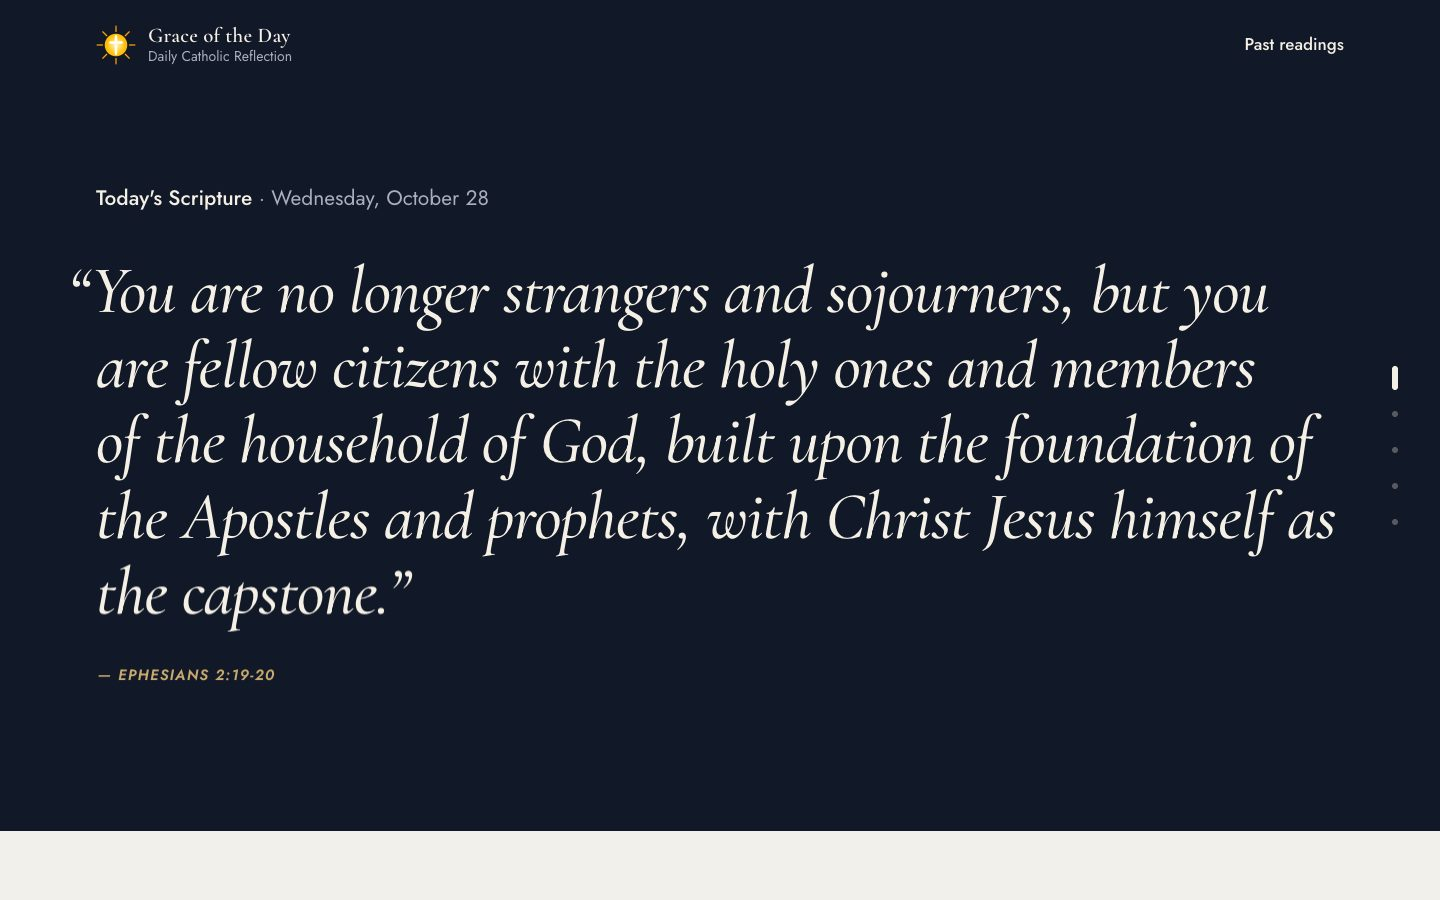
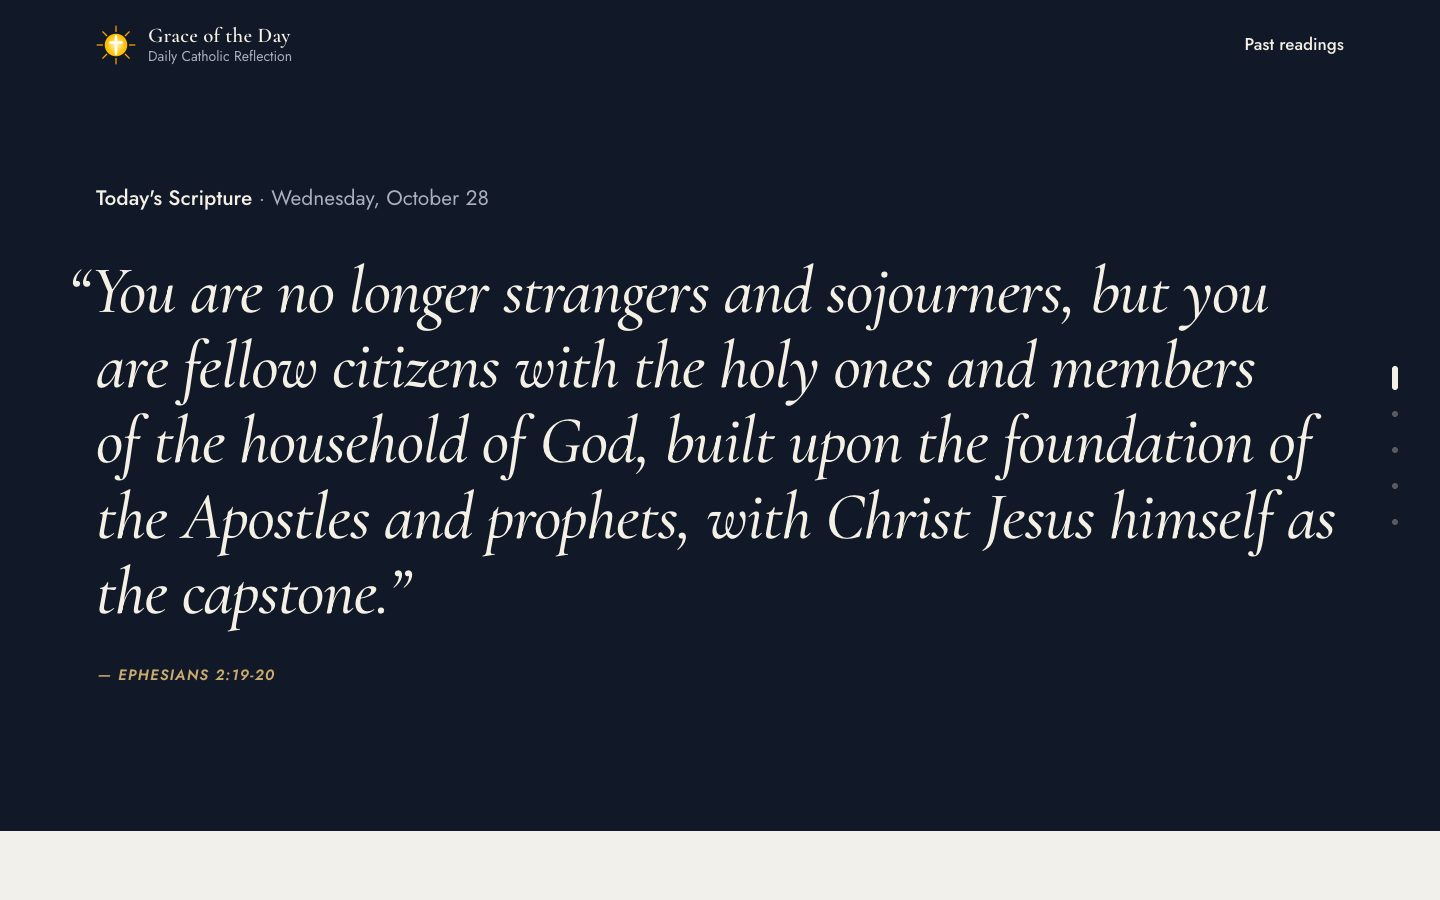
Adding preloader and adjusting opening animation

diff --git a/src/views/HomeView.vue b/src/views/HomeView.vue
@@ -4,6 +4,7 @@ import { supabase, dateKey, dateFromKey } from '../supabase';
 import { liturgicalField } from '../liturgicalColors';
 import { currentFeast, liturgicalSeason, todaysVerse } from '../liturgicalSeason';
 import { getEaster } from '../liturgicalCalendar';
+import AppLogo from '../components/AppLogo.vue';
 import { prefersReducedMotion } from '../reveal';
 
 // Today when the address is the home page; a past day at /day/YYYY-MM-DD
@@ -111,32 +112,14 @@ onBeforeUnmount(() => {
   chapterObserver?.disconnect();
 });
 
-// --- The verse arrives one line at a time ---
-const verseEl = ref(null);
-const verseLines = ref(0);
-const verseState = ref(''); // '' | 'is-measuring' | 'is-arriving'
-const verseWords = computed(() => `“${aiResponse.value.scripture}”`.split(/\s+/));
-
-// Group the words into the lines the browser wrapped them onto, then let each line rise in turn
-const arriveVerse = async () => {
-  if (prefersReducedMotion()) return;
-  verseState.value = 'is-measuring';
-  await nextTick();
-  await document.fonts?.ready;
-  const tops = [];
-  verseEl.value?.querySelectorAll('.verse-word').forEach((word) => {
-    let line = tops.indexOf(word.offsetTop);
-    if (line === -1) line = tops.push(word.offsetTop) - 1;
-    word.style.setProperty('--line', line);
-  });
-  verseLines.value = tops.length;
-  verseState.value = 'is-arriving';
-};
+// --- The loader covers the page until the reading and its fonts are ready ---
+const ready = ref(false);
 
 watch(loading, async (isLoading) => {
   if (isLoading) return;
-  arriveVerse();
   await nextTick();
+  await document.fonts?.ready;
+  ready.value = true;
   watchChapters();
 });
 
@@ -343,34 +326,37 @@ onMounted(() => {
 </script>
 
 <template>
-  <div class="home-view" :class="{ 'is-loading': loading }">
+  <div class="home-view" :class="{ 'is-ready': ready }">
+    <!-- Until the reading and its fonts have arrived, the page stays covered. Moved to the
+         body so it sits above the header and footer as well. -->
+    <Teleport to="body">
+      <Transition name="loader">
+        <div v-if="!ready" class="page-loader" role="status">
+          <AppLogo class="loader-mark" />
+          <p class="loader-text">Preparing {{ isToday ? "today's" : 'the' }} reading…</p>
+        </div>
+      </Transition>
+    </Teleport>
+
     <!-- Scripture: the first chapter, and the one large moment -->
     <section
       class="chapter chapter--navy chapter--scripture"
-      :class="verseState"
-      :style="{ '--lines': verseLines }"
       data-chapter="scripture"
       aria-labelledby="day-title"
     >
       <div class="chapter-inner">
         <!-- The chapter's name, like the others: what this is, and for which day -->
-        <h1 id="day-title" class="scripture-title" v-reveal>
+        <h1 id="day-title" class="scripture-title">
           {{ isToday ? "Today's Scripture" : 'Scripture' }}<span class="scripture-date">{{
             formattedDate
           }}</span>
         </h1>
         <template v-if="!loading">
-          <!-- Each word is a span so the verse can arrive one line at a time -->
-          <blockquote ref="verseEl" class="verse" :class="verseSize">
-            <template v-for="(word, i) in verseWords" :key="i"
-              ><span class="verse-word">{{ word }}</span>{{ ' ' }}</template
-            >
-          </blockquote>
+          <blockquote class="verse" :class="verseSize">“{{ aiResponse.scripture }}”</blockquote>
           <p class="verse-ref">
             <cite>{{ aiResponse.verse_ref }}</cite>
           </p>
         </template>
-        <p v-else class="verse-waiting" role="status">Preparing today's reading…</p>
       </div>
     </section>
 
@@ -595,44 +581,80 @@ onMounted(() => {
   }
 }
 
-.verse-waiting {
+// The scripture comes up as one piece as the loader clears
+@include motion-ok {
+  .home-view.is-ready {
+    .scripture-title,
+    .verse,
+    .verse-ref {
+      animation: scripture-rise 1.1s $ease-out both;
+    }
+
+    .verse {
+      animation-delay: 0.1s;
+    }
+
+    .verse-ref {
+      animation-delay: 0.25s;
+    }
+  }
+}
+
+@keyframes scripture-rise {
+  from {
+    opacity: 0;
+    transform: translateY(1rem);
+  }
+}
+
+// --- The loader: the navy of the first chapter, the logo breathing ---
+.page-loader {
+  position: fixed;
+  inset: 0;
+  z-index: 20;
+  display: grid;
+  place-content: center;
+  justify-items: center;
+  gap: 1.5rem;
+  background: $color-navy;
+}
+
+.loader-mark {
+  width: 3.5rem;
+  height: 3.5rem;
+
+  @include motion-ok {
+    animation: breathe 2.4s ease-in-out infinite;
+  }
+}
+
+.loader-text {
+  font-family: $font-family-serif;
   font-size: $step-lead;
   font-style: italic;
   font-weight: 500;
-  color: var(--ink-soft);
+  color: $color-navy-ink-soft;
 }
 
-// The verse arrives one line at a time (only when motion is allowed)
-.verse-word {
-  display: inline-block;
-  // Each word is its own box, so it must not inherit the verse's hanging indent
-  text-indent: 0;
-}
+@keyframes breathe {
+  0%,
+  100% {
+    opacity: 0.7;
+    transform: scale(0.92);
+  }
 
-.chapter--scripture.is-measuring {
-  .verse-word,
-  .verse-ref {
-    opacity: 0;
+  50% {
+    opacity: 1;
+    transform: scale(1);
   }
 }
 
-.chapter--scripture.is-arriving {
-  .verse-word {
-    animation: line-rise 1.2s $ease-out both;
-    animation-delay: calc(var(--line, 0) * 150ms + 150ms);
-  }
-
-  .verse-ref {
-    animation: line-rise 1.2s $ease-out both;
-    animation-delay: calc(var(--lines, 0) * 150ms + 300ms);
-  }
+.loader-leave-active {
+  transition: opacity 0.6s ease;
 }
 
-@keyframes line-rise {
-  from {
-    opacity: 0;
-    transform: translateY(0.35em);
-  }
+.loader-leave-to {
+  opacity: 0;
 }
 
 // --- Reflection: set for reading, at a generous size ---
